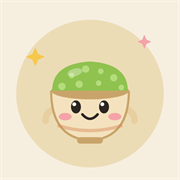
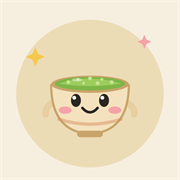
茶の湯みち: 読み上げを自然に、まっちゃんのお茶を控えめに、BGMを明るく和む呂音階に
- 読み上げ：漢字のまま一文ずつ読ませ、茶道のことばだけ読みがなに（RUBY.speech）。声の高さを控えめにして「しぜん」を標準に（しぜん／かわいい／ふつう）
- まっちゃん：お茶の山盛りをやめ、茶碗の口に少し見える程度に。アプリのアイコンも作り直し
- BGM：平調子から明るい呂音階（ニ長調の五音）に。少し軽やかなテンポ、琴の分散和音と風鈴の音

Changed region(s): [[0.25, 0.3333, 0.75, 0.8056]]

diff --git a/sado/bgm.js b/sado/bgm.js
@@ -1,12 +1,15 @@
 // ===== 茶の湯みち：和風BGM =====
 // 音源ファイルは使わず、Web Audio でその場で琴の音を作って鳴らす（著作権・容量・オフラインの心配なし）。
-// 音階は琴の「平調子」（レ・ミ・ファ・ラ・シ♭）。旋律は毎回少しずつ変わり、フレーズの間に「間」をとる。
-// 低い持続音（笙のような響き）を薄く重ねる。ブラウザの決まりで、最初のタップまでは鳴らせない。
+// 明るく和む響きにするため、半音のない「呂音階」（ニ長調の五音：レ・ミ・ファ♯・ラ・シ）を使う。
+// 旋律は毎回少しずつ変わる。フレーズの合間に琴の分散和音を鳴らし、ときどき風鈴のような音を添える。
+// ブラウザの決まりで、最初のタップまでは鳴らせない。
 
 const BGM = (function () {
-  const SCALE = [62, 64, 65, 69, 70, 74, 76, 77, 81];   // 平調子 D4〜A5（MIDI 番号）
-  const HOME = [0, 3, 5, 8];                            // 落ち着く音（レ・ラ）
-  const BEAT = 0.8;                                     // 1拍の秒数（ゆったり）
+  const SCALE = [62, 64, 66, 69, 71, 74, 76, 78, 81, 83];   // 呂音階 D4〜B5（MIDI 番号）
+  const HOME = [0, 3, 5, 8];                                // 落ち着く音（レ・ラ）
+  const CHORDS = [[50, 57, 62, 66], [47, 54, 59, 62], [45, 52, 57, 64], [50, 57, 62, 69]];   // 五音の中だけで作る分散和音（レ・シ・ラ・レが根音）
+  const CHIMES = [86, 88, 90, 93];                          // 風鈴の音（高いレ・ミ・ファ♯・ラ）
+  const BEAT = 0.62;                                        // 1拍の秒数（ゆったり、でも軽やかに）
   const VOL = 0.7;
   const hz = (m) => 440 * Math.pow(2, (m - 69) / 12);
   const pick = (a) => a[Math.floor(Math.random() * a.length)];
@@ -15,38 +18,48 @@ const BGM = (function () {
   function makeGraph(ac) {
     const master = ac.createGain(); master.gain.value = 0;
     const bus = ac.createGain();
-    const delay = ac.createDelay(1); delay.delayTime.value = 0.34;
-    const tone = ac.createBiquadFilter(); tone.type = 'lowpass'; tone.frequency.value = 2200;
-    const fb = ac.createGain(); fb.gain.value = 0.3;
-    const wet = ac.createGain(); wet.gain.value = 0.3;
+    const delay = ac.createDelay(1); delay.delayTime.value = 0.31;
+    const tone = ac.createBiquadFilter(); tone.type = 'lowpass'; tone.frequency.value = 3200;
+    const fb = ac.createGain(); fb.gain.value = 0.28;
+    const wet = ac.createGain(); wet.gain.value = 0.32;
     bus.connect(master); bus.connect(delay); delay.connect(tone); tone.connect(fb); fb.connect(delay); tone.connect(wet); wet.connect(master);
     master.connect(ac.destination);
     return { ac, master, bus };
   }
 
-  // 琴の音：三角波（胴の響き）＋のこぎり波（爪の当たり）を短く。bend で半音押し上げる（押し手）
-  function pluck(G, midi, t, vel, bend) {
-    const ac = G.ac, f = hz(midi);
+  // 琴の音：三角波（胴の響き）＋のこぎり波（爪の当たり）を短く。len は余韻の長さ
+  function pluck(G, midi, t, vel, len) {
+    const ac = G.ac, f = hz(midi), L = len || 2.4;
     const o1 = ac.createOscillator(), o2 = ac.createOscillator();
     o1.type = 'triangle'; o2.type = 'sawtooth';
     o1.frequency.setValueAtTime(f, t); o2.frequency.setValueAtTime(f, t);
-    if (bend) { o1.frequency.setValueAtTime(f, t + 0.35); o1.frequency.linearRampToValueAtTime(f * Math.pow(2, 1 / 12), t + 0.6); }
     const g1 = ac.createGain(), g2 = ac.createGain(), lp = ac.createBiquadFilter();
     lp.type = 'lowpass';
-    lp.frequency.setValueAtTime(Math.min(f * 8, 9000), t); lp.frequency.exponentialRampToValueAtTime(f * 1.6, t + 0.6);
-    g1.gain.setValueAtTime(0.0001, t); g1.gain.exponentialRampToValueAtTime(vel, t + 0.006); g1.gain.exponentialRampToValueAtTime(0.0001, t + 2.6);
-    g2.gain.setValueAtTime(0.0001, t); g2.gain.exponentialRampToValueAtTime(vel * 0.3, t + 0.004); g2.gain.exponentialRampToValueAtTime(0.0001, t + 0.3);
+    lp.frequency.setValueAtTime(Math.min(f * 10, 10000), t); lp.frequency.exponentialRampToValueAtTime(f * 2.2, t + 0.5);
+    g1.gain.setValueAtTime(0.0001, t); g1.gain.exponentialRampToValueAtTime(vel, t + 0.006); g1.gain.exponentialRampToValueAtTime(0.0001, t + L);
+    g2.gain.setValueAtTime(0.0001, t); g2.gain.exponentialRampToValueAtTime(vel * 0.28, t + 0.004); g2.gain.exponentialRampToValueAtTime(0.0001, t + 0.25);
     o1.connect(g1); o2.connect(g2); g1.connect(lp); g2.connect(lp); lp.connect(G.bus);
-    o1.start(t); o2.start(t); o1.stop(t + 2.7); o2.stop(t + 0.35);
+    o1.start(t); o2.start(t); o1.stop(t + L + 0.1); o2.stop(t + 0.3);
   }
 
-  // 持続音（レとラ）。ゆっくり息をするように大きさが揺れる
+  // 風鈴：澄んだ正弦波に、少し高い倍音を重ねて長く響かせる
+  function chime(G, midi, t) {
+    const ac = G.ac, f = hz(midi);
+    [[1, 0.035], [2.76, 0.012]].forEach(([k, v]) => {
+      const o = ac.createOscillator(), g = ac.createGain();
+      o.type = 'sine'; o.frequency.setValueAtTime(f * k, t);
+      g.gain.setValueAtTime(0.0001, t); g.gain.exponentialRampToValueAtTime(v, t + 0.01); g.gain.exponentialRampToValueAtTime(0.0001, t + 3);
+      o.connect(g); g.connect(G.bus); o.start(t); o.stop(t + 3.1);
+    });
+  }
+
+  // 持続音（レ・ラ・ファ♯）。ごく小さく、ゆっくり息をするように揺れる
   function drone(G, t) {
     const ac = G.ac;
-    const g = ac.createGain(); g.gain.setValueAtTime(0.0001, t); g.gain.exponentialRampToValueAtTime(0.035, t + 4);
-    const lfo = ac.createOscillator(), lg = ac.createGain(); lfo.frequency.value = 0.07; lg.gain.value = 0.012; lfo.connect(lg); lg.connect(g.gain);
-    const lp = ac.createBiquadFilter(); lp.type = 'lowpass'; lp.frequency.value = 650;
-    const oscs = [[50, -4], [50, 4], [57, 0], [62, 3]].map(([m, c]) => {
+    const g = ac.createGain(); g.gain.setValueAtTime(0.0001, t); g.gain.exponentialRampToValueAtTime(0.022, t + 4);
+    const lfo = ac.createOscillator(), lg = ac.createGain(); lfo.frequency.value = 0.08; lg.gain.value = 0.008; lfo.connect(lg); lg.connect(g.gain);
+    const lp = ac.createBiquadFilter(); lp.type = 'lowpass'; lp.frequency.value = 900;
+    const oscs = [[50, -3], [57, 3], [66, 0]].map(([m, c]) => {
       const o = ac.createOscillator(); o.type = 'triangle'; o.frequency.value = hz(m); o.detune.value = c; o.connect(lp); o.start(t); return o;
     });
     lp.connect(g); g.connect(G.master); lfo.start(t);
@@ -56,25 +69,30 @@ const BGM = (function () {
     };
   }
 
-  // 旋律づくり：4〜8音で1フレーズ。近くの音へ動きやすく、終わりは落ち着く音で長く。フレーズの後は「間」
+  // 旋律づくり：5〜8音で1フレーズ。近くの音へ動きやすく、終わりは落ち着く音で長く。
+  // フレーズの合間には短い「間」をとり、そこで分散和音（ときどき風鈴）を鳴らす
   function composer() {
-    let idx = 3, left = 0;
+    let idx = 3, left = 0, ci = 0;
     return function next() {
-      if (left <= 0) { left = 4 + Math.floor(Math.random() * 5); return { rest: pick([2, 3, 3, 4]) * BEAT }; }
+      if (left <= 0) {
+        left = 5 + Math.floor(Math.random() * 4);
+        return { rest: pick([1, 1.5, 2]) * BEAT, chord: CHORDS[ci++ % CHORDS.length], chime: Math.random() < 0.4 ? pick(CHIMES) : 0 };
+      }
       left--;
-      idx = Math.max(0, Math.min(SCALE.length - 1, idx + pick([-2, -1, -1, 0, 1, 1, 2, -3, 3])));
-      let dur = pick([1, 1, 1, 2, 2, 0.5, 0.5, 3]);
-      if (left === 0) { idx = HOME.reduce((p, h) => (Math.abs(h - idx) < Math.abs(p - idx) ? h : p), HOME[0]); dur = pick([3, 4]); }
-      return { midi: SCALE[idx], dur: dur * BEAT, harm: Math.random() < 0.2 };
+      idx = Math.max(0, Math.min(SCALE.length - 1, idx + pick([-2, -1, -1, 0, 1, 1, 2])));
+      let dur = pick([1, 1, 1, 0.5, 0.5, 1.5, 2]);
+      if (left === 0) { idx = HOME.reduce((p, h) => (Math.abs(h - idx) < Math.abs(p - idx) ? h : p), HOME[0]); dur = pick([2, 3]); }
+      return { midi: SCALE[idx], dur: dur * BEAT, harm: Math.random() < 0.15 };
     };
   }
   function scheduleUntil(G, next, s, until) {
     while (s.next < until) {
       const n = next();
+      if (n.chord) n.chord.forEach((m, k) => pluck(G, m, s.next + k * 0.11, 0.075, 2));
+      if (n.chime) chime(G, n.chime, s.next + 0.3);
       if (n.rest) { s.next += n.rest; continue; }
-      const pc = n.midi % 12, long = n.dur >= BEAT * 2;
-      pluck(G, n.midi, s.next, 0.2 + Math.random() * 0.08, long && (pc === 4 || pc === 9) && Math.random() < 0.3);
-      if (n.harm && n.midi - 12 >= 50) pluck(G, n.midi - 12, s.next + 0.02, 0.1, false);
+      pluck(G, n.midi, s.next, 0.17 + Math.random() * 0.06);
+      if (n.harm && n.midi - 12 >= 50) pluck(G, n.midi - 12, s.next + 0.02, 0.08);
       s.next += n.dur;
     }
   }

diff --git a/sado/app.js b/sado/app.js
@@ -5,8 +5,15 @@
   const MAX_MISS = 3;   // ミスがこの回数になったら失格
 
   // ---------- 保存 ----------
-  let save = { school: null, gender: 'f', ruby: 'all', bgm: true, voice: true, voiceStyle: 'cute', voiceName: '', walkCfg: { room: '4.5', season: 'furo', role: 'shokyaku' }, seq: {}, sim: {}, stamp: {}, quiz: {}, dougu: {}, walk: {} };
-  try { const s = JSON.parse(localStorage.getItem(KEY)); if (s) save = Object.assign(save, s); } catch (_) {}
+  let save = { school: null, gender: 'f', ruby: 'all', bgm: true, voice: true, voiceStyle: 'natural', voiceVer: 2, voiceName: '', walkCfg: { room: '4.5', season: 'furo', role: 'shokyaku' }, seq: {}, sim: {}, stamp: {}, quiz: {}, dougu: {}, walk: {} };
+  try {
+    const s = JSON.parse(localStorage.getItem(KEY));
+    if (s) {
+      save = Object.assign(save, s);
+      // 前の版の「かわいい（高すぎる声）」の設定は、しぜんに戻す
+      if (s.voiceVer !== 2) { save.voiceStyle = 'natural'; save.voiceVer = 2; }
+    }
+  } catch (_) {}
   const persist = () => { try { localStorage.setItem(KEY, JSON.stringify(save)); } catch (_) {} };
   const bucket = (name) => { save[name] = save[name] || {}; return (save[name][save.school] = save[name][save.school] || {}); };
 
@@ -682,6 +689,8 @@
     for (const r of rank) { const v = vs.find((x) => r.test(x.name) && !MALE_VOICE.test(x.name)); if (v) return v; }
     return vs.find((x) => !MALE_VOICE.test(x.name)) || vs[0] || null;
   }
+  // 声の調子。しぜん＝少しだけ明るく、かわいい＝高め、ふつう＝そのまま
+  const VOICE_STYLES = { natural: { label: 'しぜん', pitch: 1.08, rate: 1 }, cute: { label: 'かわいい', pitch: 1.22, rate: 1.03 }, plain: { label: 'ふつう', pitch: 1, rate: 0.96 } };
   const voiceLabel = (n) => n.replace(/^Microsoft\s*/, '').replace(/\s*-\s*Japanese.*$/, '').replace(/\s*\(Japan\)/, '');
   const ICON = {
     prev: '<svg viewBox="0 0 24 24"><path d="M6 5 V19 M19 5 L9 12 L19 19 Z" fill="currentColor" stroke="currentColor" stroke-width="2"/></svg>',
@@ -713,7 +722,7 @@
           <button id="vd-next" aria-label="次へ">${ICON.next}</button>
           <button id="vd-voice" class="${save.voice && canSpeak ? '' : 'off'}" aria-label="読み上げ">${save.voice && canSpeak ? ICON.voiceOn : ICON.voiceOff}</button>
         </div>
-        ${canSpeak ? `<div class="vset"><span>声</span><button class="vs ${save.voiceStyle !== 'normal' ? 'on' : ''}" data-vs="cute">かわいい</button><button class="vs ${save.voiceStyle === 'normal' ? 'on' : ''}" data-vs="normal">ふつう</button><select id="vd-vsel" aria-label="声の種類"></select></div>` : ''}
+        ${canSpeak ? `<div class="vset"><span>声</span>${Object.entries(VOICE_STYLES).map(([k, s]) => `<button class="vs ${(VOICE_STYLES[save.voiceStyle] ? save.voiceStyle : 'natural') === k ? 'on' : ''}" data-vs="${k}">${s.label}</button>`).join('')}<select id="vd-vsel" aria-label="声の種類"></select></div>` : ''}
       </div>
       <div id="vd-end"></div>`);
     const $ = (s) => app.querySelector(s);
@@ -724,19 +733,24 @@
       const vs = jaVoices();
       sel.innerHTML = '<option value="">おまかせ</option>' + vs.map((v) => `<option value="${esc(v.name)}"${v.name === save.voiceName ? ' selected' : ''}>${esc(voiceLabel(v.name))}</option>`).join('');
     }
+    // 漢字はそのまま（茶道のことばだけ読みがなに）にして、一文ずつ区切って読む。声の高さは控えめに
     function speak(text, done) {
       if (!canSpeak || !save.voice) return false;
       synth.cancel();
-      const u = new SpeechSynthesisUtterance(RUBY.kana(text));
-      const cute = save.voiceStyle !== 'normal';
-      u.lang = 'ja-JP'; u.pitch = cute ? 1.45 : 1; u.rate = cute ? 1.05 : 0.95;
+      const style = VOICE_STYLES[save.voiceStyle] || VOICE_STYLES.natural;
       const v = pickVoice();
-      if (v) u.voice = v;
+      const parts = RUBY.speech(text).replace(/([。！？!?])/g, '$1\n').split('\n').map((x) => x.trim()).filter(Boolean);
       const my = token;
-      let fired = false;
+      let fired = false, left = parts.length;
       const fin = () => { if (fired || my !== token) return; fired = true; done(); };
-      u.onend = fin; u.onerror = fin;
-      synth.speak(u);
+      parts.forEach((p) => {
+        const u = new SpeechSynthesisUtterance(p);
+        u.lang = 'ja-JP'; u.pitch = style.pitch; u.rate = style.rate;
+        if (v) u.voice = v;
+        u.onend = () => { if (--left <= 0) fin(); };
+        u.onerror = fin;
+        synth.speak(u);
+      });
       timer = setTimeout(fin, 4000 + text.length * 260);   // 読み上げが終わりを知らせない端末のための保険
       return true;
     }

diff --git a/sado/art.js b/sado/art.js
@@ -254,9 +254,11 @@ const ART = (function () {
       : arm('M18,60 Q8,64 9,72') + arm('M82,60 Q92,64 91,72');
     s += '<path d="M14,44 Q14,88 50,90 Q86,88 86,44 Z" fill="#f3e2bd"/><path d="M14,44 Q14,88 50,90 Q86,88 86,44" fill="none" stroke="#c9a46a" stroke-width="2"/>'
       + '<path d="M20,76 Q50,86 80,76" stroke="#d98a5a" stroke-width="3" fill="none" opacity=".45"/><rect x="38" y="87" width="24" height="6" rx="3" fill="#c9a46a"/>'
-      + '<ellipse cx="50" cy="44" rx="36" ry="8" fill="#c9a46a"/><path d="M15,44 Q15,19 50,17 Q85,19 85,44 Z" fill="#8fc24f"/>'
-      + [[24, 40], [33, 30], [46, 24], [60, 26], [72, 32], [79, 41], [40, 38], [58, 37]].map(([x, y], i) => `<circle cx="${x}" cy="${y}" r="${i % 2 ? 2.6 : 3.4}" fill="#b5dc7a"/>`).join('')
-      + '<ellipse cx="36" cy="27" rx="7" ry="3.5" fill="#ffffff55" transform="rotate(-15 36 27)"/>';
+      // 茶碗の口に、点てたお茶が少しふんわり見えるくらい（山盛りにしない）
+      + '<ellipse cx="50" cy="44" rx="36" ry="8" fill="#c9a46a"/><ellipse cx="50" cy="43.5" rx="32.5" ry="6.2" fill="#7fb547"/>'
+      + '<path d="M21,43.5 Q50,34 79,43.5 Q50,48 21,43.5 Z" fill="#9ccd5c"/>'
+      + [[30, 42], [39, 39.5], [50, 38.5], [61, 39.5], [70, 42], [44, 43], [57, 43]].map(([x, y], i) => `<circle cx="${x}" cy="${y}" r="${i % 2 ? 1.3 : 1.8}" fill="#c4e48f"/>`).join('')
+      + '<ellipse cx="38" cy="40" rx="5" ry="1.5" fill="#ffffff66"/>';
     const eye = (x) => `<ellipse cx="${x}" cy="59" rx="4.6" ry="6" fill="#2b2622"/><circle cx="${x - 1.6}" cy="56.5" r="1.8" fill="#fff"/>`;
     s += `<ellipse cx="27" cy="68" rx="6" ry="3.4" fill="${BLUSH}"/><ellipse cx="73" cy="68" rx="6" ry="3.4" fill="${BLUSH}"/>`;
     if (expr === 'joy') s += '<path d="M31,60 Q37,52 43,60 M57,60 Q63,52 69,60" stroke="#2b2622" stroke-width="3" fill="none" stroke-linecap="round"/><path d="M41,65 Q50,79 59,65 Z" fill="#c84d4d"/><ellipse cx="50" cy="72" rx="4" ry="2.2" fill="#f08a8a"/>'
@@ -265,7 +267,7 @@ const ART = (function () {
     else if (expr === 'sad') s += eye(37) + eye(63) + '<path d="M30,49 L42,52 M70,49 L58,52" stroke="#2b2622" stroke-width="2" stroke-linecap="round"/><path d="M44,72 Q50,66 56,72" stroke="#2b2622" stroke-width="2.4" fill="none" stroke-linecap="round"/><path d="M33,66 Q30,74 33,77 Q36,74 33,66 Z" fill="#8cc8ea"/><path d="M67,66 Q64,74 67,77 Q70,74 67,66 Z" fill="#8cc8ea"/>';
     else if (expr === 'think') s += '<ellipse cx="37" cy="57" rx="4.6" ry="6" fill="#2b2622"/><ellipse cx="63" cy="57" rx="4.6" ry="6" fill="#2b2622"/><circle cx="38" cy="53.5" r="1.8" fill="#fff"/><circle cx="64" cy="53.5" r="1.8" fill="#fff"/><path d="M45,70 L55,69" stroke="#2b2622" stroke-width="2.2" stroke-linecap="round"/><path d="M84,10 q8,0 8,7 q0,5 -6,7 l0,4 M86,32 l0,.5" stroke="#8a7a5c" stroke-width="3" fill="none" stroke-linecap="round"/>';
     else s += eye(37) + eye(63) + '<path d="M43,66 Q50,74 57,66" stroke="#2b2622" stroke-width="2.4" fill="none" stroke-linecap="round"/>';
-    return s;
+    return `<g transform="translate(0,-6)">${s}</g>`;   // お茶を減らした分、少し上に寄せる
   }
 
   // ---------- 作法の手順の絵 ----------

diff --git a/sado/ruby.js b/sado/ruby.js
@@ -194,8 +194,11 @@ const RUBY = (function () {
     });
   }
 
-  // 読み上げ用：漢字を読みがなに置きかえた文
+  // 読みがなに置きかえた文（すべての漢字）
   const kana = (text) => segs(text).map(([s, r]) => r || s).join('');
+  // 読み上げ用：漢字はそのまま残し（端末が区切りやアクセントを自然に付けられる）、
+  // 読み間違えやすい茶道のことば・名前（TERMS）と数字のあとの読みだけを読みがなに置きかえる
+  const speech = (text) => segs(text).map(([s, r, cls]) => (r && (cls === 'rb-t' || /^\d/.test(s)) ? r : s)).join('');
 
-  return { apply, segs, kana, missing };
+  return { apply, segs, kana, speech, missing };
 })();

diff --git a/sado/sw.js b/sado/sw.js
@@ -1,8 +1,8 @@
 // ===== 茶の湯みち Service Worker =====
-// SW_VERSION: 2026-10-04e
+// SW_VERSION: 2026-10-04f
 // PWA「アプリにする（ホーム画面に追加）」を可能にし、オフラインでも遊べるようにする。
 // 方針：ネット優先（常に最新を取得）＋失敗時はキャッシュへ退避。
-const CACHE = 'sado-v5';
+const CACHE = 'sado-v6';
 const SHELL = ['./', './index.html', './data.js', './art.js', './ruby.js', './bgm.js', './app.js', './manifest.json',
                './icon-192.png', './icon-512.png', './apple-touch-icon.png'];
 

diff --git a/CLAUDE.md b/CLAUDE.md
@@ -11,7 +11,7 @@
 | `marubatsu/` | 〇×ゲーム「消える〇×」（印は3つまで＝4つ目で最古が消える＝引き分けなし。CPU5段階（lv1れんしゅう〜lv5おに＝先読み1/2/4/6/8手）／ふたり対戦／オンライン対戦。勝負は3勝先取の5回勝負。PWA対応。オンラインはルートのオセロと同じFirebaseを流用し `rooms/mb-<合言葉4文字>` を使う＝DBルール変更不要） |
 | `kikansha/` | しりとりゲーム「しりとり機関車」（線路を流れてくる貨車の中から、しりとりでつながる語をタップして連結。**石炭ゲージが減り続け、連結すると補給＝時間制限**（長い語ほど多く入る）。**10両ごとに駅にとうちゃく＝日本地図を札幌→那覇と南下**（石炭満タン＋ボーナス、駅ごとに名物の絵とご当地キャラ）。「ン」で終わる語をつなぐと脱線＝ワナ。のんびり/ふつう/とっきゅうの3段階、連結するほど加速。語句は `words.js`、絵（日本地図・名物・キャラ）は `art.js`。PWA） |
 | `mindquest/` | 夢・目標の冒険すごろく「マインドクエスト」（元は claude.ai のアーティファクト https://claude.ai/artifact/3eoELtpVtuYHgYr6QPSxJF 。そのソースを1ファイルの `index.html` にし、manifest・sw.js・アイコンを足してPWA化。**Claude の外では AI 機能（賢者への質問・AIアドバイス）とオンライン対戦は動かない**＝それ以外は単体で遊べる。アーティファクトを直したら、ここも作り直す） |
-| `sado/` | 茶道学習ゲーム「茶の湯みち」（表千家／裏千家／武者小路千家のコース別＋**男手前／女手前**の切り替え。あそんで覚える＝①お点前の順序（絵つきカード並べ。お菓子・薄茶・濃茶は**流派ごとに手順の配列が違う**）②季節の茶席シミュレーション ③知識クイズ ④お道具の名前当て ⑤茶室の歩き方＝席入り（三畳・四畳半・六畳・八畳 × 風炉・炉 × 正客・次客・お詰め の24通り。畳の縁と炉を避け、床の間→点前座の釜の順に拝見して席へ。目標の場所で作法を問う。亭主は全員着座後に入る）。**どのゲームもミス3回で失格**（`MAX_MISS`）。見て学ぶ＝作法の動画（SVGアニメ＋字幕フリガナ＋端末の読み上げ。まっちゃんの話し言葉、自然な女性の声を自動で選び高め＝かわいい／ふつう）・流派紹介（男女の違い・お辞儀の真行草）・道具図鑑・三千家くらべ。**作法は公式サイト等で確かめた内容だけ**を載せ、出典は data.js の `REFERENCES`（画面の「参考にした資料」）。武者小路千家は資料が少なく、確かめた違い以外は一般的な形＋注意書き。和風BGMは `bgm.js`（Web Audio 合成）。全画面フリガナ、上部固定の「もどる」＋スマホの戻る操作。データ `data.js`、絵 `art.js`、読みの辞書 `ruby.js`（文言を足したら辞書にも足す）。PWA：ホームの「アプリにする」＝端末別のインストール案内・公開URLのQR（art.js に固定）、manifest のショートカット、アイコンはまっちゃん。文字は画面幅で拡大縮小、幅320pxまではみ出さない） |
+| `sado/` | 茶道学習ゲーム「茶の湯みち」（表千家／裏千家／武者小路千家のコース別＋**男手前／女手前**の切り替え。あそんで覚える＝①お点前の順序（絵つきカード並べ。お菓子・薄茶・濃茶は**流派ごとに手順の配列が違う**）②季節の茶席シミュレーション ③知識クイズ ④お道具の名前当て ⑤茶室の歩き方＝席入り（三畳・四畳半・六畳・八畳 × 風炉・炉 × 正客・次客・お詰め の24通り。畳の縁と炉を避け、床の間→点前座の釜の順に拝見して席へ。目標の場所で作法を問う。亭主は全員着座後に入る）。**どのゲームもミス3回で失格**（`MAX_MISS`）。見て学ぶ＝作法の動画（SVGアニメ＋字幕フリガナ＋端末の読み上げ。まっちゃんの話し言葉、自然な女性の声を自動で選ぶ。漢字のまま一文ずつ読ませ、茶道のことばだけ読みがなに＝RUBY.speech。声はしぜん（標準）／かわいい／ふつう）・流派紹介（男女の違い・お辞儀の真行草）・道具図鑑・三千家くらべ。**作法は公式サイト等で確かめた内容だけ**を載せ、出典は data.js の `REFERENCES`（画面の「参考にした資料」）。武者小路千家は資料が少なく、確かめた違い以外は一般的な形＋注意書き。和風BGMは `bgm.js`（Web Audio 合成。明るく和む呂音階＝ニ長調の五音、琴の分散和音と風鈴の音）。全画面フリガナ、上部固定の「もどる」＋スマホの戻る操作。データ `data.js`、絵 `art.js`、読みの辞書 `ruby.js`（文言を足したら辞書にも足す）。PWA：ホームの「アプリにする」＝端末別のインストール案内・公開URLのQR（art.js に固定）、manifest のショートカット、アイコンはまっちゃん。文字は画面幅で拡大縮小、幅320pxまではみ出さない） |
 | ルート | 4人対戦オセロ |
 
 技術：バニラ HTML/CSS/JS（ビルド不要）、PWA、ローカルは `serve.ps1`。
